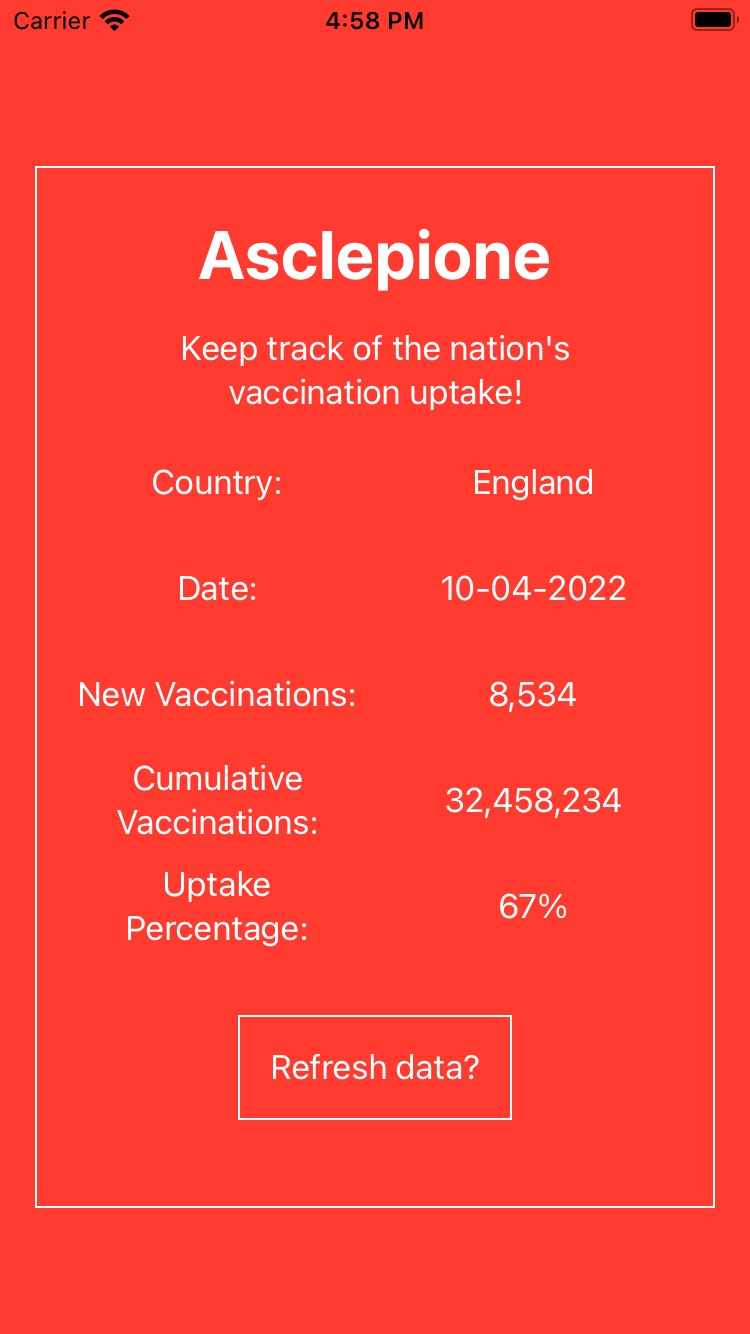
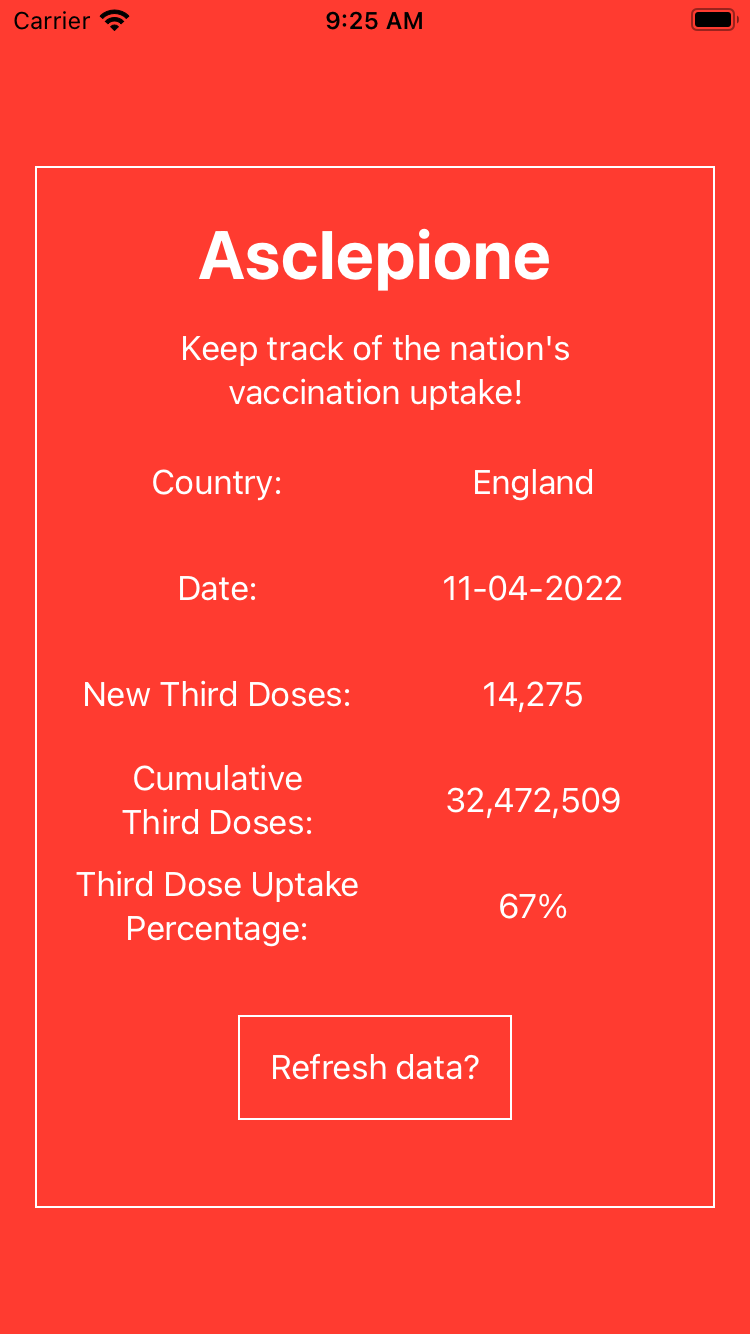
Added new screenshot for placeholder data

diff --git a/Asclepione/UI/ContentView.swift b/Asclepione/UI/ContentView.swift
@@ -74,7 +74,7 @@ struct ContentView: View {
     
     var newVaccinationsView: some View {
         HStack(alignment: .center) {
-            Text("New Vaccinations:")
+            Text("New Third Doses:")
                 .frame(width: lefthandWidth, height: textFieldHeight, alignment: .center)
                 .accessibilityIdentifier("newVaccText")
             PlaceholderTextView(
@@ -86,7 +86,7 @@ struct ContentView: View {
     
     var cumulativeVaccinationsView: some View {
         HStack(alignment: .center) {
-            Text("Cumulative Vaccinations:")
+            Text("Cumulative Third Doses:")
                 .frame(width: lefthandWidth, height: textFieldHeight, alignment: .center)
                 .accessibilityIdentifier("cumVaccText")
             PlaceholderTextView(
@@ -98,7 +98,7 @@ struct ContentView: View {
     
     var uptakePercentageView: some View {
         HStack(alignment: .center) {
-            Text("Uptake Percentage:")
+            Text("Third Dose Uptake Percentage:")
                 .frame(width: lefthandWidth, height: textFieldHeight, alignment: .center)
                 .accessibilityIdentifier("uptakePercentageText")
             PlaceholderTextView(
@@ -150,7 +150,7 @@ struct PlaceholderTextView: View {
 struct ContentView_Previews: PreviewProvider {
     static var previews: some View {
         ContentView()
-.previewInterfaceOrientation(.landscapeLeft)
+.previewInterfaceOrientation(.portrait)
     }
 }
 
